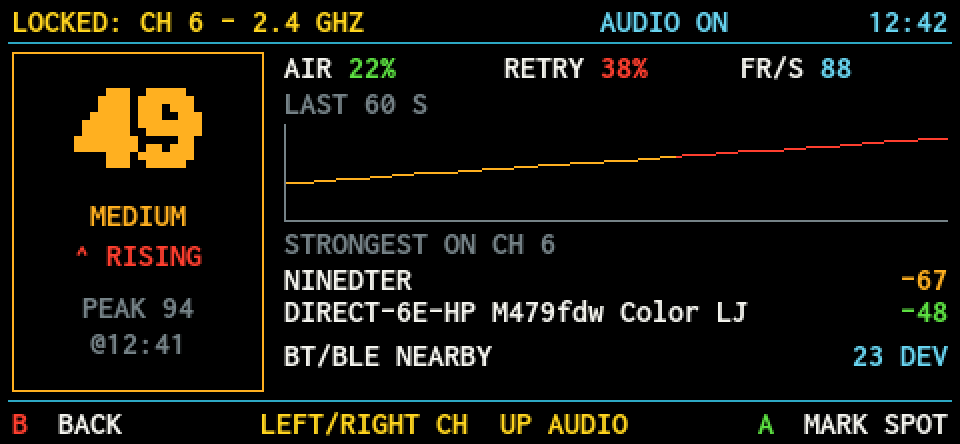
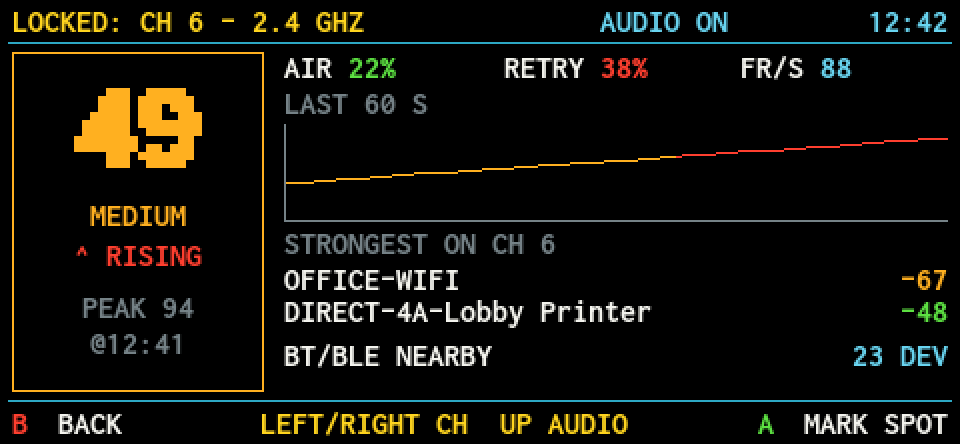
fix(rf-buddy): use made-up network names in preview data
The lock-on preview listed a real office SSID and printer with their MACs.
Swap in fictional names and AA:BB:CC sample addresses, and re-render the
README screenshot.

Changed region(s): [[0.2812, 0.5856, 0.7812, 0.732]]

diff --git a/pineapple-pager/src/user/defcon/RF-BUDDY/ui/preview.go b/pineapple-pager/src/user/defcon/RF-BUDDY/ui/preview.go
@@ -47,7 +47,7 @@ func previewSnapshot(now time.Time, stress bool) Snapshot {
 	for i := 0; i < lockHistoryLen; i++ {
 		lock.History = append(lock.History, 40+i*50/lockHistoryLen)
 	}
-	lock.Top = []Transmitter{{Addr: "70:A7:41:6C:00:2E", SSID: "NINEDTER", SignalDBm: -67}, {Addr: "02:68:EB:EC:0C:6E", SSID: "DIRECT-6E-HP M479fdw Color LJ", SignalDBm: -48}}
+	lock.Top = []Transmitter{{Addr: "AA:BB:CC:10:20:30", SSID: "OFFICE-WIFI", SignalDBm: -67}, {Addr: "AA:BB:CC:40:50:60", SSID: "DIRECT-4A-Lobby Printer", SignalDBm: -48}}
 	if stress {
 		lock.Score, lock.Raw, lock.Peak = 100, 100, 100
 		lock.Top = []Transmitter{{Addr: "AA:BB:CC:00:00:09", SSID: "THIS-IS-A-VERY-LONG-GUEST-NETWORK-NAME-FOR-CONTAINMENT", SignalDBm: -100}, {Addr: "AA:BB:CC:00:00:0A", SignalDBm: -99}}
